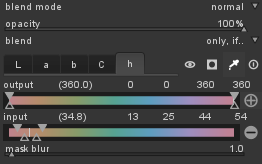
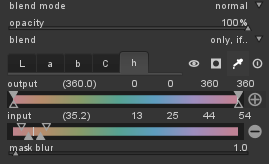
blendif: fix inconsitent behavior of markers in gui
also correct usermanual accordingly

diff --git a/src/develop/blend_gui.c b/src/develop/blend_gui.c
@@ -597,15 +597,15 @@ dt_iop_gui_update_blendif(dt_iop_module_t *module)
   gtk_toggle_button_set_active(GTK_TOGGLE_BUTTON(data->upper_polarity), opolarity);
 
 
-  dtgtk_gradient_slider_multivalue_set_marker(data->lower_slider, ipolarity ? GRADIENT_SLIDER_MARKER_LOWER_OPEN_BIG : GRADIENT_SLIDER_MARKER_UPPER_FILLED_BIG, 0);
-  dtgtk_gradient_slider_multivalue_set_marker(data->lower_slider, ipolarity ? GRADIENT_SLIDER_MARKER_UPPER_FILLED_BIG : GRADIENT_SLIDER_MARKER_LOWER_OPEN_BIG, 1);
-  dtgtk_gradient_slider_multivalue_set_marker(data->lower_slider, ipolarity ? GRADIENT_SLIDER_MARKER_UPPER_FILLED_BIG : GRADIENT_SLIDER_MARKER_LOWER_OPEN_BIG, 2);
-  dtgtk_gradient_slider_multivalue_set_marker(data->lower_slider, ipolarity ? GRADIENT_SLIDER_MARKER_LOWER_OPEN_BIG : GRADIENT_SLIDER_MARKER_UPPER_FILLED_BIG, 3);
+  dtgtk_gradient_slider_multivalue_set_marker(data->lower_slider, ipolarity ? GRADIENT_SLIDER_MARKER_LOWER_OPEN_BIG : GRADIENT_SLIDER_MARKER_UPPER_OPEN_BIG, 0);
+  dtgtk_gradient_slider_multivalue_set_marker(data->lower_slider, ipolarity ? GRADIENT_SLIDER_MARKER_UPPER_FILLED_BIG : GRADIENT_SLIDER_MARKER_LOWER_FILLED_BIG, 1);
+  dtgtk_gradient_slider_multivalue_set_marker(data->lower_slider, ipolarity ? GRADIENT_SLIDER_MARKER_UPPER_FILLED_BIG : GRADIENT_SLIDER_MARKER_LOWER_FILLED_BIG, 2);
+  dtgtk_gradient_slider_multivalue_set_marker(data->lower_slider, ipolarity ? GRADIENT_SLIDER_MARKER_LOWER_OPEN_BIG : GRADIENT_SLIDER_MARKER_UPPER_OPEN_BIG, 3);
 
-  dtgtk_gradient_slider_multivalue_set_marker(data->upper_slider, opolarity ? GRADIENT_SLIDER_MARKER_LOWER_OPEN_BIG : GRADIENT_SLIDER_MARKER_UPPER_FILLED_BIG, 0);
-  dtgtk_gradient_slider_multivalue_set_marker(data->upper_slider, opolarity ? GRADIENT_SLIDER_MARKER_UPPER_FILLED_BIG : GRADIENT_SLIDER_MARKER_LOWER_OPEN_BIG, 1);
-  dtgtk_gradient_slider_multivalue_set_marker(data->upper_slider, opolarity ? GRADIENT_SLIDER_MARKER_UPPER_FILLED_BIG : GRADIENT_SLIDER_MARKER_LOWER_OPEN_BIG, 2);
-  dtgtk_gradient_slider_multivalue_set_marker(data->upper_slider, opolarity ? GRADIENT_SLIDER_MARKER_LOWER_OPEN_BIG : GRADIENT_SLIDER_MARKER_UPPER_FILLED_BIG, 3);
+  dtgtk_gradient_slider_multivalue_set_marker(data->upper_slider, opolarity ? GRADIENT_SLIDER_MARKER_LOWER_OPEN_BIG : GRADIENT_SLIDER_MARKER_UPPER_OPEN_BIG, 0);
+  dtgtk_gradient_slider_multivalue_set_marker(data->upper_slider, opolarity ? GRADIENT_SLIDER_MARKER_UPPER_FILLED_BIG : GRADIENT_SLIDER_MARKER_LOWER_FILLED_BIG, 1);
+  dtgtk_gradient_slider_multivalue_set_marker(data->upper_slider, opolarity ? GRADIENT_SLIDER_MARKER_UPPER_FILLED_BIG : GRADIENT_SLIDER_MARKER_LOWER_FILLED_BIG, 2);
+  dtgtk_gradient_slider_multivalue_set_marker(data->upper_slider, opolarity ? GRADIENT_SLIDER_MARKER_LOWER_OPEN_BIG : GRADIENT_SLIDER_MARKER_UPPER_OPEN_BIG, 3);
 
 
 
